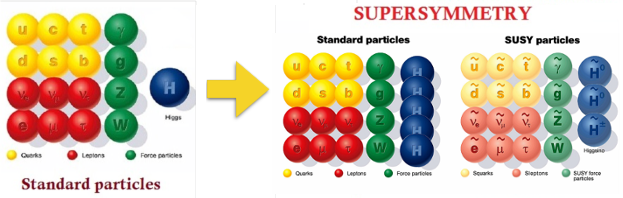
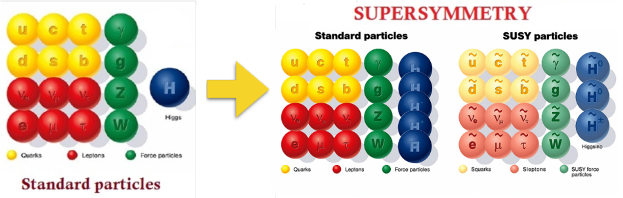
mssm-alt

Changed region(s): [[0.427, 0.1515, 1.0, 0.9394]]

diff --git a/Section1.tex b/Section1.tex
@@ -12,7 +12,7 @@
 
 	\begin{figure}[B]
 		\centering
-	 	\includegraphics[width=1\textwidth,]{figures/mssm.png}
+	 	\includegraphics[width=1\textwidth,]{figures/mssm2.png}
 		\caption{
 			\begin{tiny}
 	source:  http://inspirehep.net/record/1407182/files/SUSY.png
